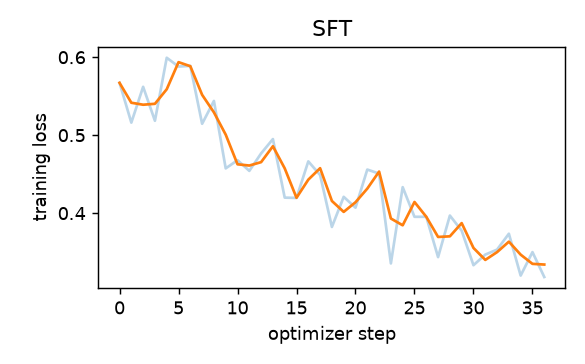
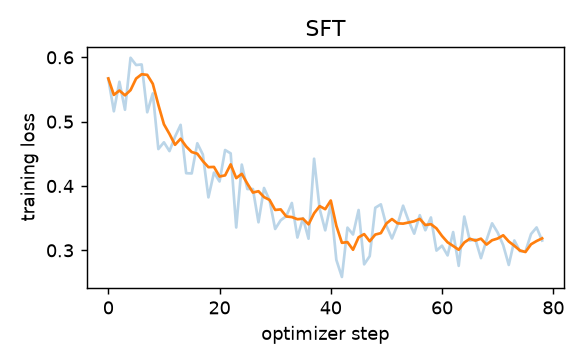
Fine-tuning: put the full SFT training log back and redraw its curve
Claude-Session: https://claude.ai/code/session_01GQkCkULPPonDdWifCrN2xy

diff --git a/results/traser_bench/CHECKLIST.md b/results/traser_bench/CHECKLIST.md
@@ -35,7 +35,7 @@ Updated 21 Oct 2026, 16:10. ✅ done · ⏳ running · ⬜ to do (who does it)
 - ✅ SFT + GRPO trained on PVSG, tested on PVSG (62) + VidOR (300)
 - ⬜ judge the 833-883 relation words the fine-tuned models used that were never judged (`score.py --ask`, NVIDIA key): until then their lenient scores are too low
 - ⬜ SVG2test test: needs SVG2test prepared
-- ⬜ put the full SFT training log back into `logs/sft.jsonl` (Claude, after the runs; it is in the git history)
+- ✅ full SFT training log back in `logs/sft.jsonl` (steps 1-79 of 86; the last 7 steps were lost when the server swapped the file)
 
 ## 8. Write-up
 - ⬜ one-page summary for the supervisor: interpretability + pair experiment + fine-tuning (Claude)
